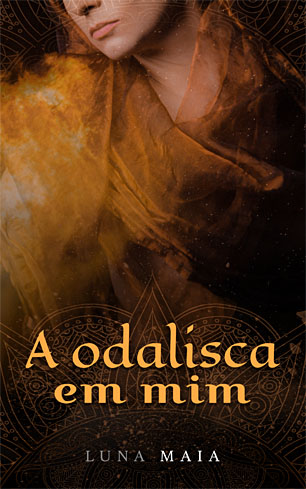
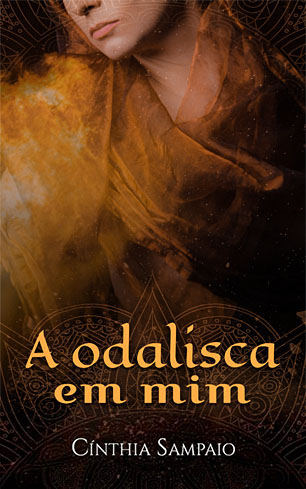
Update A Odalisca em mim book

Changed region(s): [[0.2353, 0.8896, 0.7647, 0.9509], [0.0, 0.8589, 0.0294, 0.9202]]

diff --git a/assets/languages/pt_br.js b/assets/languages/pt_br.js
@@ -25,7 +25,7 @@ pt_br = {
   interstice_info: 'Livro: Interstice - Livro II da série Shadow<br/>Autora: J.M Cleminson<br/>Lançamento: 2017<br/><a href="https://goo.gl/7DqvCF" target="_blank">Compre o Livro</a>',
   recipes_description: 'O repositório principal de receitas para UNI. Você pode criar suas prórias receitas ou usar uma das disponíveis.',
   what_type_is_description: 'Uma biblioteca simples de checagem de tipos para Node.js.',
-  odalisca_info: 'Livro: A Odalisca Em Mim<br/>Autora: Luna Maia<br/>Lançamento: 2017<br/><a href="http://a.co/iNQipLe" target="_blank">Compre o Livro</a>',
+  odalisca_info: 'Livro: A Odalisca Em Mim<br/>Autora: Cínthia Sampaio<br/>Lançamento: 2017<br/><a href="http://a.co/d/1t7ifTk" target="_blank">Compre o Livro</a>',
   nine_nine_notifications_description: 'Extensão 99designs não oficial para navegadores para receber notificações na área de trabalho com o número de notificações não lidas com um som específico e páginas do 99d atualizadas com esses números.',
   netflix_list_exporter_description: `Uma extensão para exportar a 'Minha lista' da Netflix para a área de transferência e compartilhar com seus amigos.`,
   supporters: 'COLABORADORES',

diff --git a/assets/languages/pt_pt.js b/assets/languages/pt_pt.js
@@ -25,7 +25,7 @@ pt_pt = {
   interstice_info: 'Livro: Interstice - Livro II da série Shadow<br/>Autora: J.M Cleminson<br/>Lançamento: 2017<br/><a href="https://goo.gl/7DqvCF" target="_blank">Compre o Livro</a>',
   recipes_description: 'O repositório principal de receitas para UNI. Você pode criar suas prórias receitas ou usar uma das disponíveis.',
   what_type_is_description: 'Uma biblioteca simples de checagem de tipos para Node.js.',
-  odalisca_info: 'Livro: A Odalisca Em Mim<br/>Autora: Luna Maia<br/>Lançamento: 2017<br/><a href="http://a.co/iNQipLe" target="_blank">Compre o Livro</a>',
+  odalisca_info: 'Livro: A Odalisca Em Mim<br/>Autora: Cínthia Sampaio<br/>Lançamento: 2017<br/><a href="http://a.co/d/1t7ifTk" target="_blank">Compre o Livro</a>',
   nine_nine_notifications_description: 'Extensão 99designs não oficial para navegadores para receber notificações na área de trabalho com o número de notificações não lidas com um som específico e páginas do 99d atualizadas com esses números.',
   netflix_list_exporter_description: `Uma extensão para exportar a 'Minha lista' da Netflix para a área de transferência e compartilhar com seus amigos.`,
   supporters: 'COLABORADORES',

diff --git a/assets/languages/en.js b/assets/languages/en.js
@@ -25,7 +25,7 @@ en = {
   interstice_info: 'Book: Interstice - Book II from Shadow Series<br/>Author: J.M Cleminson<br/>Release: 2017<br/><a href="https://goo.gl/7DqvCF" target="_blank">Buy the Book</a>',
   recipes_description: 'The main recipes repository for UNI. You can create your own or use one of the available recipes.',
   what_type_is_description: 'A simple type checking library for Node.js.',
-  odalisca_info: 'Book: A Odalisca Em Mim<br/>Author: Luna Maia<br/>Release: 2017<br/><a href="http://a.co/iNQipLe" target="_blank">Buy the Book</a>',
+  odalisca_info: 'Book: A Odalisca Em Mim<br/>Author: Cínthia Sampaio<br/>Release: 2017<br/><a href="http://a.co/d/1t7ifTk" target="_blank">Buy the Book</a>',
   nine_nine_notifications_description: 'Unofficial 99designs browser extension to get desktop notifications with the number of unread notifications with specific sound and title bar of 99d pages open updated with these numbers.',
   netflix_list_exporter_description: `An Extension to export your 'My list' from Netflix to Clipboard area and share with your friends.`,
   supporters: 'SUPPORTERS',

diff --git a/index.html b/index.html
@@ -514,14 +514,14 @@
         </section>
         
         <section id="odalisca" class="design-item">
-          <a href="http://a.co/iNQipLe" target="_blank">
-            <img src="assets/img/design/odalisca-min.jpg" alt="A Odalisca Em Mim - Luna Maia - Book Cover"/>
+          <a href="http://a.co/d/1t7ifTk" target="_blank">
+            <img src="assets/img/design/odalisca-min.jpg" alt="A Odalisca Em Mim - Cínthia Sampaio - Book Cover"/>
             <h2></h2>
             <span orb="odalisca_info">
               Book: A Odalisca Em Mim<br/>
-              Author: Luna Maia<br/>
+              Author: Cínthia Sampaio<br/>
               Release: 2017<br/>
-              Buy the Book: http://a.co/iNQipLe
+              Buy the Book: http://a.co/d/1t7ifTk
             </span>
           </a>
         </section>         
